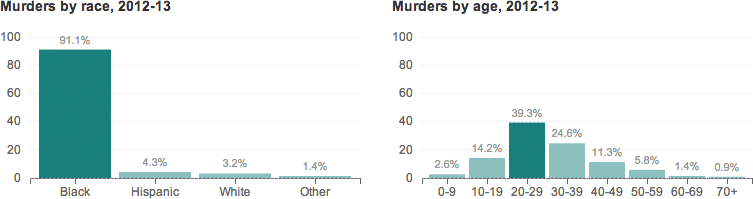
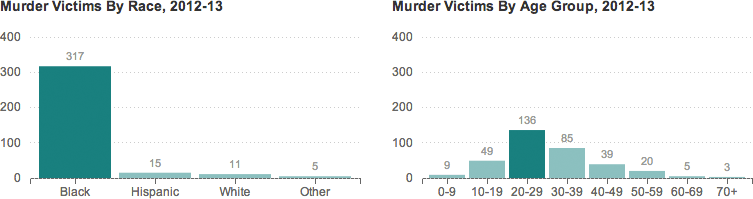
graph nola-deaths by nums rather than pct

diff --git a/www/graphics/nola-deaths/js/graphic.js b/www/graphics/nola-deaths/js/graphic.js
@@ -15,26 +15,26 @@ var colors = {
 };
 
 var graphic_data_race = [
-    { "label": "Black", "deaths": 91.1 },
-    { "label": "Hispanic", "deaths": 4.3 },
-    { "label": "White", "deaths": 3.2 },
-    { "label": "Other", "deaths": 1.4 }
+    { "label": "Black", "deaths": 317 },
+    { "label": "Hispanic", "deaths": 15 },
+    { "label": "White", "deaths": 11 },
+    { "label": "Other", "deaths": 5 }
 ];
 
 var graphic_data_age = [
-    { "label": "0-9", "deaths": 2.6 },
-    { "label": "10-19", "deaths": 14.2 },
-    { "label": "20-29", "deaths": 39.3 },
-    { "label": "30-39", "deaths": 24.6 },
-    { "label": "40-49", "deaths": 11.3 },
-    { "label": "50-59", "deaths": 5.8 },
-    { "label": "60-69", "deaths": 1.4 },
-    { "label": "70+", "deaths": 0.9 }
+    { "label": "0-9", "deaths": 9 },
+    { "label": "10-19", "deaths": 49 },
+    { "label": "20-29", "deaths": 136 },
+    { "label": "30-39", "deaths": 85 },
+    { "label": "40-49", "deaths": 39 },
+    { "label": "50-59", "deaths": 20 },
+    { "label": "60-69", "deaths": 5 },
+    { "label": "70+", "deaths": 3 }
 ];
 
 var labels = {
-    "race": "Share Of Murders By Race, 2012-13",
-    "age": "Share Of Murders By Age Group, 2012-13"
+    "race": "Murder Victims By Race, 2012-13",
+    "age": "Murder Victims By Age Group, 2012-13"
 };
 
 /*
@@ -54,7 +54,7 @@ function render_chart(data, id, container_width) {
     var graphic_data = data;
     var is_mobile = false;
     var last_data_point = graphic_data.length - 1;
-    var margin = { top: 10, right: 10, bottom: 35, left: 40 };
+    var margin = { top: 10, right: 10, bottom: 35, left: 30 };
     var num_bars = graphic_data.length;
     var num_ticks = 4;
     var width = container_width;
@@ -74,7 +74,7 @@ function render_chart(data, id, container_width) {
 
     var y = d3.scale.linear()
         .range([height, 0])
-        .domain([0, 100]);
+        .domain([0, 400]);
 
     var xAxis = d3.svg.axis()
         .scale(x)
@@ -83,10 +83,7 @@ function render_chart(data, id, container_width) {
     var yAxis = d3.svg.axis()
         .scale(y)
         .orient('left')
-        .ticks(num_ticks)
-        .tickFormat(function(d) {
-            return d + '%';
-        });
+        .ticks(num_ticks);
 
     var y_axis_grid = function() { return yAxis; }
     
@@ -149,7 +146,7 @@ function render_chart(data, id, container_width) {
                 return y(d.deaths) - 6;
             })
             .attr('text-anchor', 'middle')
-            .text(function(d) { return d.deaths + '%' });
+            .text(function(d) { return d.deaths; });
 
     if (pymChild) {
         pymChild.sendHeightToParent();

diff --git a/www/graphics/nola-deaths/child_template.html b/www/graphics/nola-deaths/child_template.html
@@ -129,6 +129,11 @@
 <body>
     <div id="graphic"><img src="fallback.png" alt="Graph: New Orleans murders in 2012-13, by race and age" /></div>
     
+    <div class="footnotes">
+        <h4>Notes</h4>
+        <p>The age of two victims was unknown.</p>
+    </div>
+
     <div class="footer">
         <p>Source: New Orleans Police Department</p>
         <p>Credit: Alyson Hurt and Keith O'Brien/NPR</p>
